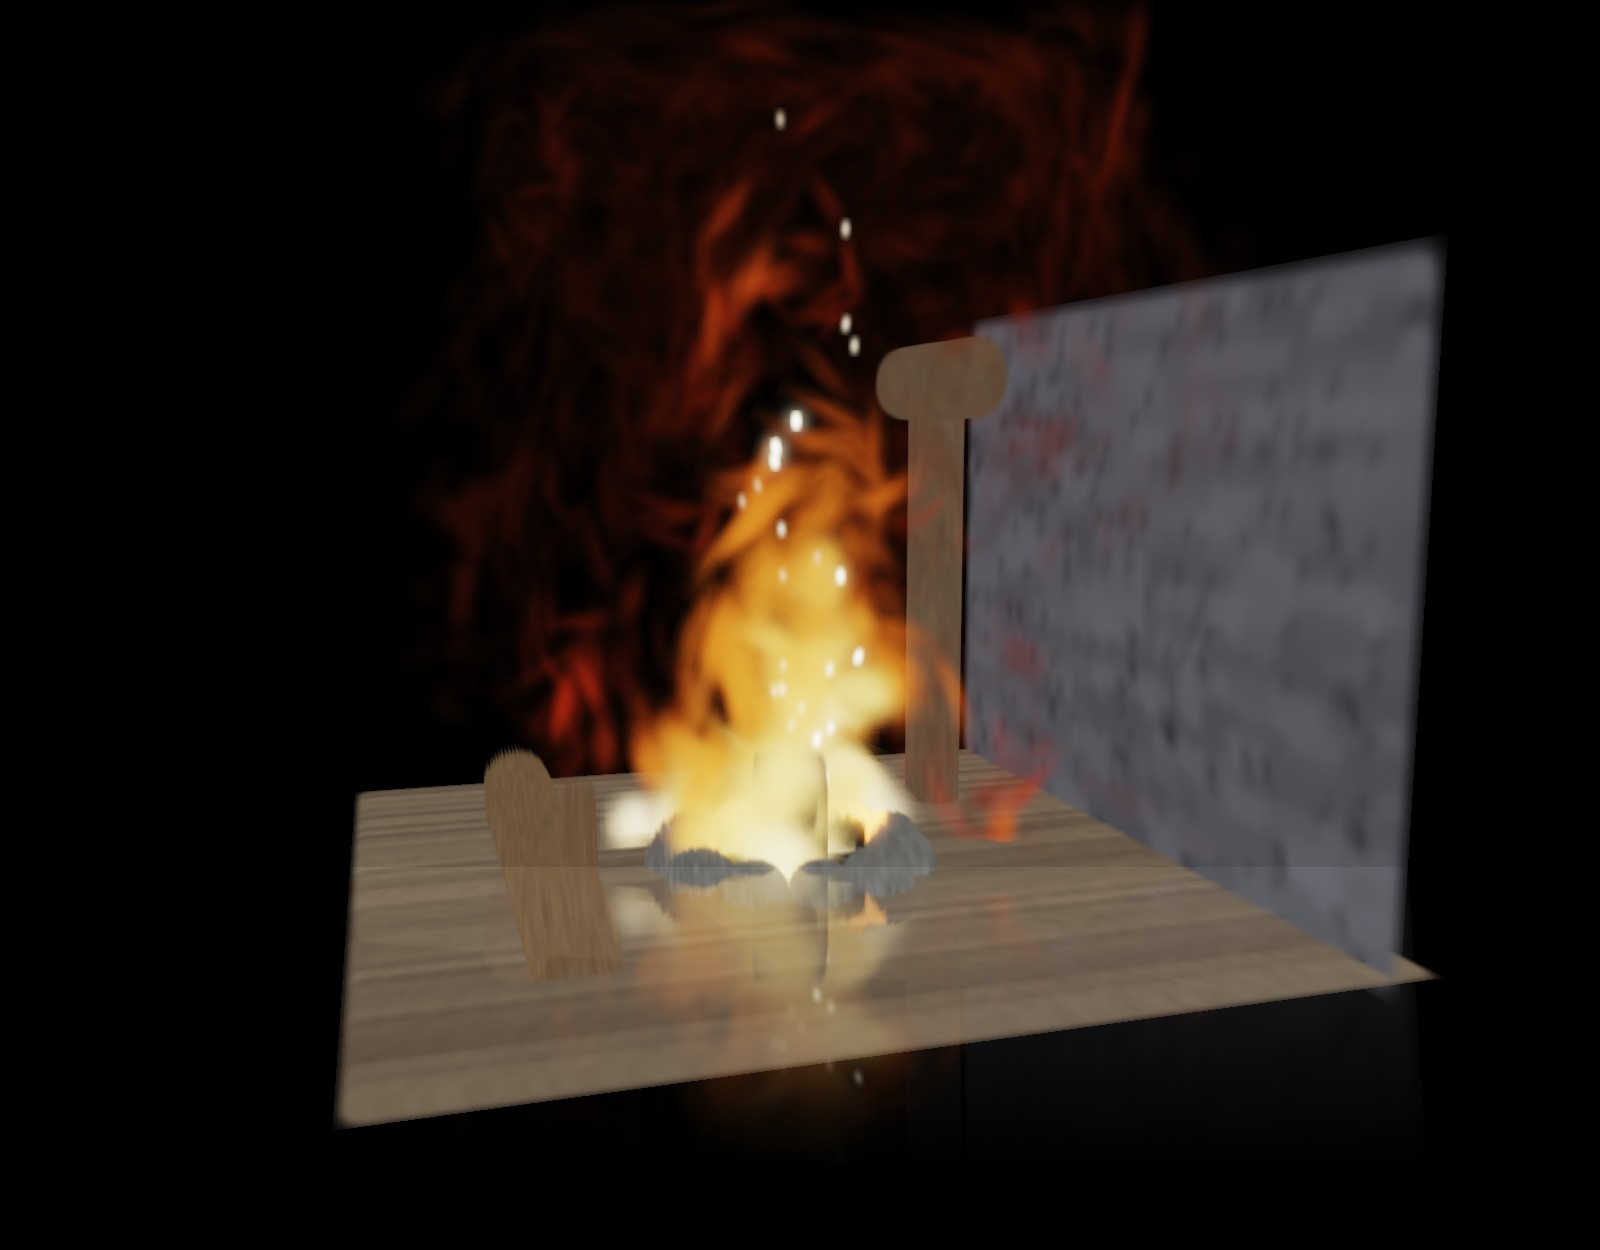
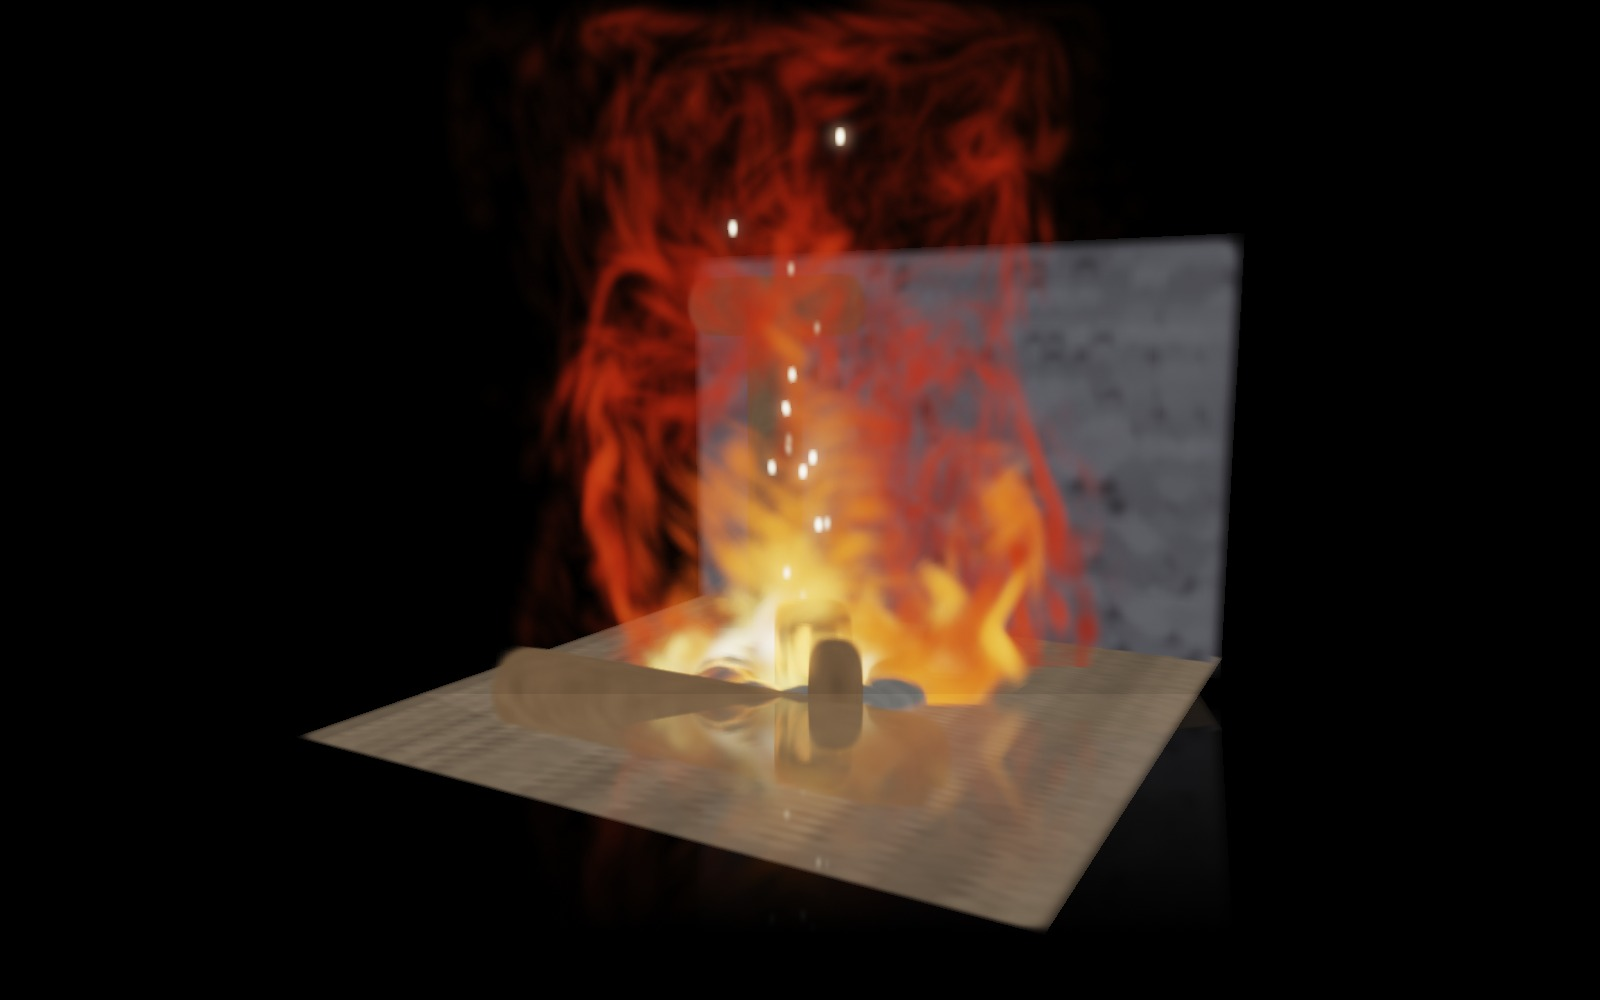
Re-shoot all three teaser panels; lock the row to a fixed aspect ratio
The three panels were shot at different times with different tuning, so they
had different aspect ratios (16:10, 1.28:1, 1.28:1) and the row rendered
ragged, and two of the three were dark enough to read as grey smudges at
thumbnail size.

All three re-shot at 1600x1000 with tuning aimed at thumbnail legibility:

- Left, hero flame: procedural environment off, so it is a pure black field
  with a white-hot core, orange body, dark-red turbulent tips and sharp
  embers. Previously the ground haze band ate the lower third.
- Middle, scene composition: three-quarter view of the solver burning inside
  the loaded 3DGS scene, brighter than the previous version, with charred
  fuel visible at the base.
- Right, smoke: environment off and haze cut, which brings out the vortical
  filament structure. Previously it was a low-contrast grey haze with no
  legible structure.

Layout: .imgrow img now carries aspect-ratio 16/10 with object-fit cover, so
the row stays aligned regardless of what a future panel is shot at.

Also fixed two things that were stale rather than merely ugly: the page
caption still described the retired middle panel ("an orbiting camera ...
correct parallax"), and the middle panel's alt text claimed the rear post
occludes the flame, which is not true of this take -- the post has burned
away by the moment shown.

diff --git a/index.html b/index.html
@@ -43,7 +43,8 @@
   .muted{color:var(--sub)}
   .imgrow{display:flex;gap:10px;margin:14px 0}
   .imgrow>div{flex:1;min-width:0}
-  .imgrow img{width:100%;display:block;border-radius:10px}
+  /* 固定 16:10 并 cover 裁切: 以后换任意长宽比的图, 这一行都不会再排歪 */
+  .imgrow img{width:100%;display:block;border-radius:10px;aspect-ratio:16/10;object-fit:cover;background:#000}
   figure{margin:14px 0}
   figcaption{font-size:.9rem;color:var(--sub);margin-top:8px;text-align:center}
   img.solo{width:100%;display:block;border-radius:10px}
@@ -126,17 +127,12 @@
 <!-- ======================= teaser ======================= -->
 <section class="wrap" style="padding-top:8px">
   <div class="imgrow">
-    <div><img src="static/images/fig_teaser_v4.jpg" alt="Flame driven by layered vortex-in-cell simulation"></div>
-    <div><img src="static/images/fig_teaser_scene.jpg" alt="The same solver burning inside a loaded 3DGS scene: the post occludes the flame per primitive and consumed geometry is charred in place"></div>
-    <div><img src="static/images/fig_smoke_over.jpg" alt="The same particle state re-shaded as smoke"></div>
+    <div><img src="static/images/fig_teaser_flame.jpg" alt="Flame driven by layered vortex-in-cell simulation"></div>
+    <div><img src="static/images/fig_teaser_scene.jpg" alt="The same solver burning inside a loaded 3DGS scene: flame and scene splats share one depth order and occlude each other per primitive, and consumed fuel is charred in place"></div>
+    <div><img src="static/images/fig_teaser_smoke.jpg" alt="The same particle state re-shaded as smoke"></div>
   </div>
   <figure><figcaption>
-    Real-time, forward-simulated fire and smoke rendered as <b>native Gaussian-splatting content</b>.
-    Left: a flame driven by nine layered 2D vortex-in-cell simulations, in which every vortex particle
-    <i>is</i> an emissive anisotropic Gaussian. Middle: an orbiting camera; view-aligned slices and
-    per-primitive depth sorting give correct parallax against a dark 3DGS environment the fire locally
-    illuminates. Right: the identical particle state re-shaded as smoke. All results run in real time
-    in a browser &mdash; <a href="demo/">try it live</a>.
+    Real-time, forward-simulated fire and smoke rendered as <b>native Gaussian-splatting content</b>. <b>Left:</b> a flame driven by nine layered 2D vortex-in-cell simulations, in which every vortex particle <i>is</i> an emissive anisotropic Gaussian &mdash; white-hot core, orange body, dark-red turbulent tips, with embers. <b>Middle:</b> the same solver burning inside a loaded 3DGS scene from a three-quarter view. The flame and the scene's splats share one depth order, so each occludes the other per primitive, and combustion state lives on the scene's own splats &mdash; the fuel it has already consumed is charred in place and the plume above is fed by the burning geometry. <b>Right:</b> the identical particle state re-shaded as smoke (absorption-dominated compositing with warm underlighting). All results run in real time in a browser &mdash; <a href="demo/">try it live</a>.
   </figcaption></figure>
 
   <p class="narrow" style="margin-top:18px">
@@ -241,7 +237,7 @@
     <div class="narrow">
       <video controls preload="metadata" playsinline
              style="width:100%;border-radius:12px;display:block;background:#0a0a0d"
-             poster="static/images/fig_teaser_v4.jpg">
+             poster="static/images/fig_teaser_flame.jpg">
         <source src="static/video/vortex_gaussians_supplemental.mp4" type="video/mp4">
       </video>
     </div>
